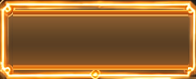
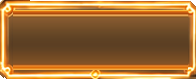
Clear the plate background from tab and button corners
The storehouse tabs and Buy buttons looked ragged at their corners: the
kit pieces kept whatever lay beyond their chamfers on the plate they were
cut from (a light patch on the gold button, neighbouring tab ornaments
and a half-width right rim on ach-tab).

art/royal/rims.py clears everything outside a piece's gold rim and can
mirror a piece cut through a shared divider. cuts.json takes a "rims"
option (ach-tab symmetric, ach-tab-selected clear) and chrome.py tidies
button-navy and button-gold.

Changed region(s): [[0.1531, 0.0, 1.0, 0.0759], [0.0, 0.962, 0.0306, 1.0], [0.0, 0.0, 0.0306, 0.0253]]

diff --git a/art/royal/rims.py b/art/royal/rims.py
@@ -1,0 +1,62 @@
+"""Tidies the outside of framed kit pieces cut from the concepts.
+
+A piece cut from a row of touching tabs or from a busy plate carries whatever lay beyond its frame: a corner of the
+next tab, a plate ornament, a patch of background. Drawn on its own those show as ragged corners.
+
+  clear_outside(image)    everything outside the gold rim becomes transparent
+  symmetric(image)        the left half mirrored onto the right
+"""
+from PIL import Image
+
+
+def _bright(pixel):
+    r, g, b, a = pixel
+    return a > 128 and (0.299 * r + 0.587 * g + 0.114 * b > 150 or (r - b > 45 and 0.299 * r + 0.587 * g + 0.114 * b > 85))
+
+
+def _rim(image):
+    """The frame's gold rim: every bright pixel joined to the middle of the top edge."""
+    w, h = image.size
+    pixels = image.load()
+    start = next(((w // 2, y) for y in range(h // 3) if _bright(pixels[w // 2, y])), None)
+    if start is None:
+        raise ValueError("no rim at the top edge")
+    rim, stack = set(), [start]
+    while stack:
+        x, y = stack.pop()
+        if (x, y) in rim or not (0 <= x < w and 0 <= y < h) or not _bright(pixels[x, y]):
+            continue
+        rim.add((x, y))
+        stack += [(x + dx, y + dy) for dx in (-1, 0, 1) for dy in (-1, 0, 1) if dx or dy]
+    return rim
+
+
+def clear_outside(image):
+    """Clears what lies outside the rim: flooding in from the four corners, stopped only by the rim itself."""
+    image = image.convert("RGBA")
+    w, h = image.size
+    pixels = image.load()
+    rim = _rim(image)
+    seen, stack = set(), [(0, 0), (w - 1, 0), (0, h - 1), (w - 1, h - 1)]
+    while stack:
+        x, y = stack.pop()
+        if (x, y) in seen or not (0 <= x < w and 0 <= y < h) or (x, y) in rim:
+            continue
+        seen.add((x, y))
+        stack += [(x + 1, y), (x - 1, y), (x, y + 1), (x, y - 1)]
+    # Corners and slivers are a few percent of a piece; a flood that reaches far in found a gap in a dim rim.
+    if len(seen) > 0.1 * w * h:
+        raise ValueError(f"the rim has a gap: clearing would take {len(seen) * 100 // (w * h)}% of the piece")
+    for x, y in seen:
+        r, g, b, _ = pixels[x, y]
+        pixels[x, y] = (r, g, b, 0)
+    return image
+
+
+def symmetric(image):
+    """Mirrors the left half onto the right, for a piece whose right edge was cut through a shared divider."""
+    image = image.convert("RGBA")
+    w, h = image.size
+    half = image.crop((0, 0, w // 2, h)).transpose(Image.FLIP_LEFT_RIGHT)
+    image.paste(half, (w - half.width, 0))
+    return image

diff --git a/art/royal/chrome.py b/art/royal/chrome.py
@@ -8,6 +8,9 @@ import sys
 from pathlib import Path
 from PIL import Image
 
+sys.path.insert(0, str(Path(__file__).resolve().parent))
+import rims  # noqa: E402
+
 ROOT = Path(__file__).resolve().parents[2]
 PLATES = ROOT / "assets/ui/royal/plates"
 OUT = ROOT / "assets/ui/royal/kit"
@@ -90,12 +93,15 @@ def main(only=()):
     def wanted(name): return not only or name in only
     warband, hub, multiplayer, codex = plate("warband"), plate("hub"), plate("multiplayer"), plate("codex")
     # The tab is the strip's second tab with its whole rim: both gold dividers it shares with its neighbours and
-    # the rail beneath, so a tab standing on its own is framed on all four sides.
+    # the rail beneath, so a tab standing on its own is framed on all four sides. The buttons lose the plate's
+    # background beyond their chamfered corners.
     for name, rect in {"button-navy": (753, 610, 216, 62), "button-gold": (979, 610, 265, 62), "tab": (730.3, 56, 111.8, 72.6),
                        "tile": (753, 377, 181, 68), "close-button": (1186, 27, 54, 54)}.items():
         if wanted(name):
             piece = cut(warband, *rect)
-            (clear_tab_corners(piece) if name == "tab" else piece).save(OUT / f"{name}.png", optimize=True)
+            if name == "tab": piece = clear_tab_corners(piece)
+            elif name.startswith("button-"): piece = rims.clear_outside(piece)
+            piece.save(OUT / f"{name}.png", optimize=True)
     if wanted("paper"): cut(codex, 126, 145, 535, 512).save(OUT / "paper.png", optimize=True)
     if wanted("modal-frame"): modal_frame(hub)
     if wanted("modal-header"): modal_header(multiplayer)

diff --git a/art/royal/cuts.py b/art/royal/cuts.py
@@ -12,6 +12,9 @@ Modes:
   key-gold   gold/painted icon on a dark ground -> original colours, alpha from distance to the ground
   plate      copy from the generated clean plate (keeps its alpha)
 
+A framed piece can add "rims": "clear" (what lies beyond its gold rim turns transparent) or "symmetric" (its left
+half mirrored onto the right first), see art/royal/rims.py.
+
   python3 art/royal/cuts.py [name ...]
 """
 import json
@@ -22,6 +25,7 @@ from PIL import Image, ImageFilter
 ROOT = Path(__file__).resolve().parents[2]
 sys.path.insert(0, str(ROOT / "art/royal"))
 from plates import CONCEPTS, GEN, SIZE  # noqa: E402
+import rims  # noqa: E402
 
 OUT = ROOT / "assets/ui/royal/kit"
 SPEC = ROOT / "art/royal/cuts.json"
@@ -142,6 +146,10 @@ def run(cut):
         image = key_ground(image.convert("RGB"), cut.get("tolerance", 38), cut.get("softness", 40))
     elif mode == "plain":
         image = image.convert("RGB")
+    if cut.get("rims"):
+        # A frame cut from a row of touching tabs: what lay beyond its rim goes, and "symmetric" first mirrors the
+        # left half over a right edge cut through the divider it shared.
+        image = rims.clear_outside(rims.symmetric(image) if cut["rims"] == "symmetric" else image)
     OUT.mkdir(parents=True, exist_ok=True)
     image.save(OUT / f"{cut['name']}.png", optimize=True)
 
